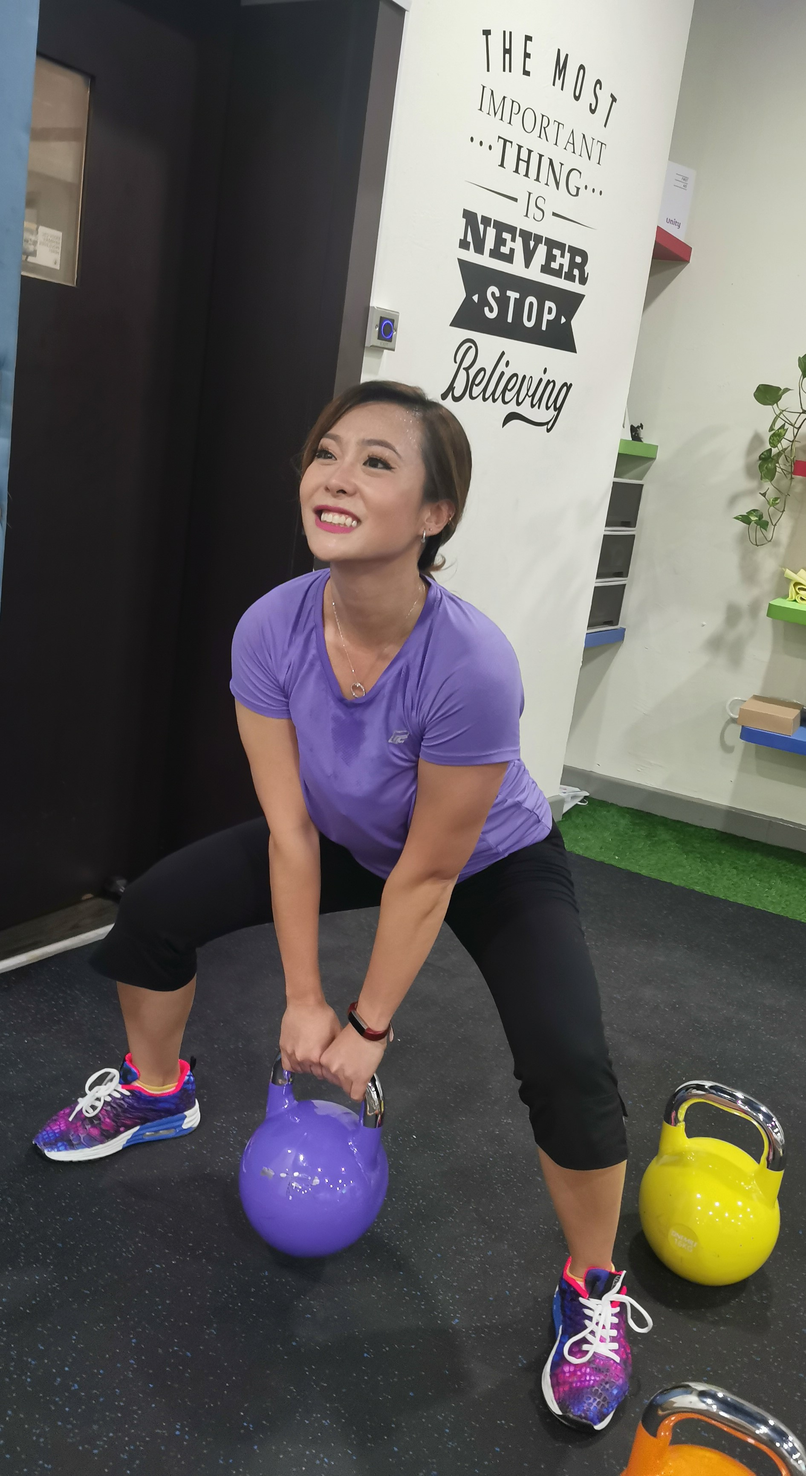
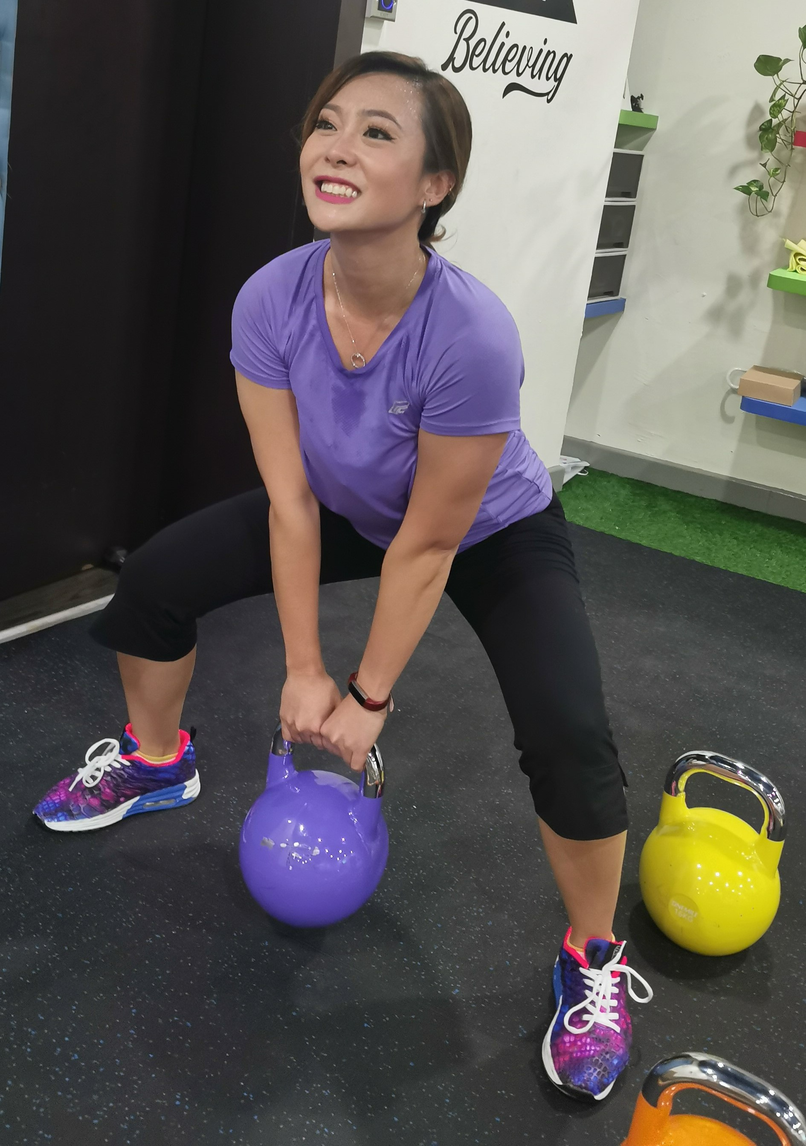
recrop olivia pic

diff --git a/pages/testimonials.html b/pages/testimonials.html
@@ -168,7 +168,7 @@
               </div>
             </div>
             <div class="col-6 col-md-3 isotope-item interior">
-              <div class="hoverbox rounded overflow-hidden" data-zanim-xs='{"animation":"zoom-in","delay":0.2}'><img class="w-100 fit-cover" src="../assets/img/gallery/Olivia-testimonial.jpeg" alt="" />
+              <div class="hoverbox rounded overflow-hidden" data-zanim-xs='{"animation":"zoom-in","delay":0.2}'><img class="w-100 fit-cover" src="../assets/img/gallery/Olivia-2.jpeg" alt="" />
                 <div class="hoverbox-content bg-dark d-flex flex-center text-center">
                   <div class="px-4">
                     <h5 class="text-white">Olivia Marzuki</h5><a class="btn btn-outline-light btn-xs mt-3" href="../pages/successstories06.html">learn more</a>
